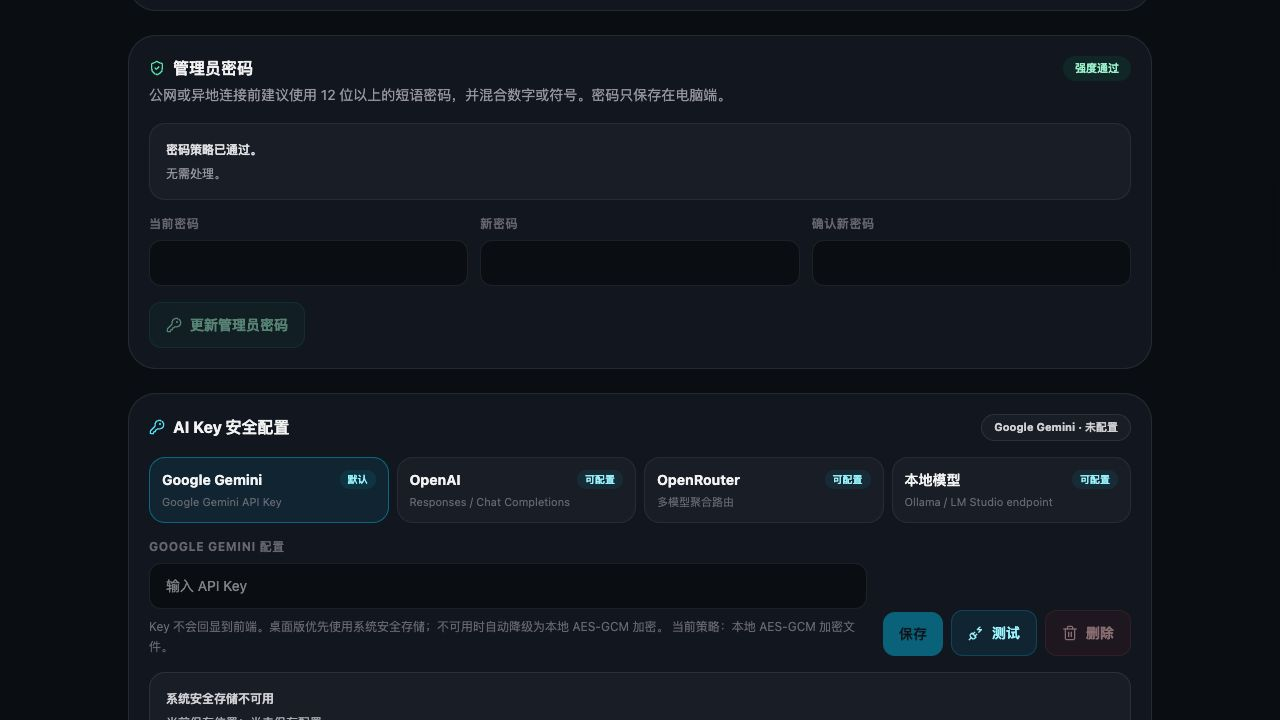
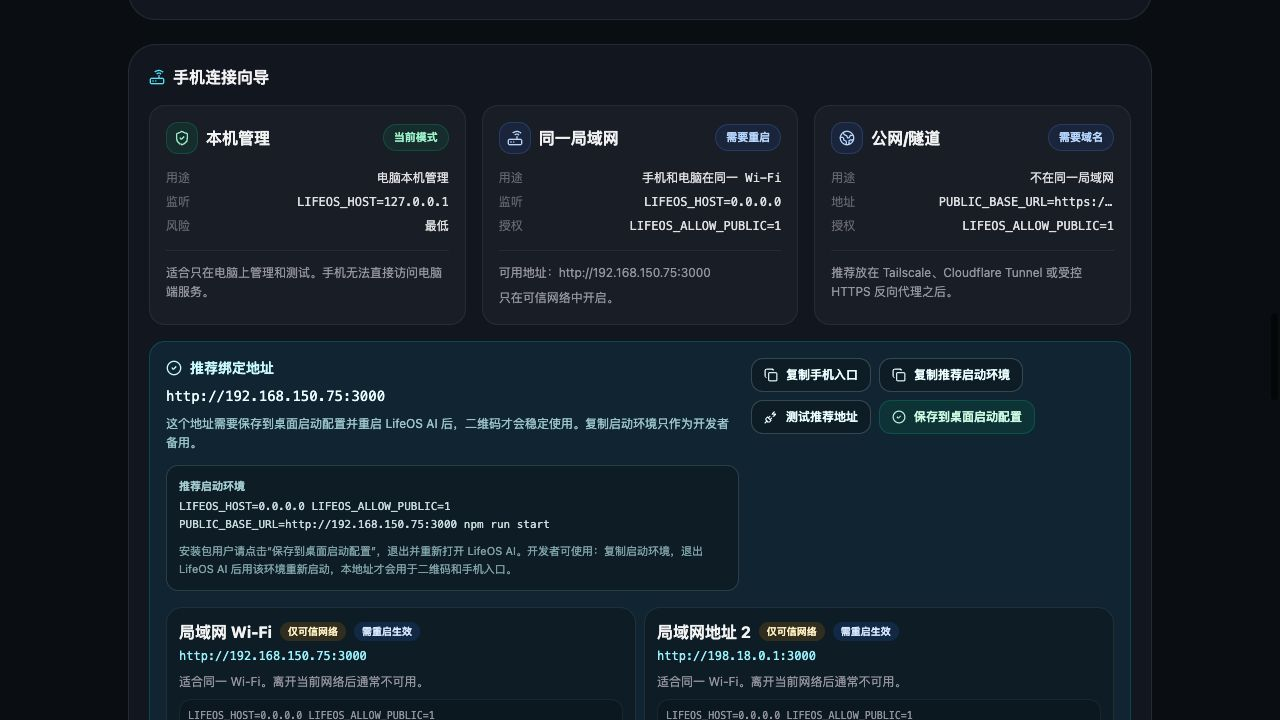
Polish launch materials with real screenshots

diff --git a/server/mobileInstall.ts b/server/mobileInstall.ts
@@ -88,16 +88,16 @@ export function mobileManifest(pairingToken = "") {
     ],
     screenshots: [
       {
-        src: "/screenshots/mobile-chat.svg",
+        src: "/screenshots/real-mobile-chat.jpg",
         sizes: "390x844",
-        type: "image/svg+xml",
+        type: "image/jpeg",
         form_factor: "narrow",
         label: "手机端 AI 聊天",
       },
       {
-        src: "/screenshots/mobile-device.svg",
+        src: "/screenshots/real-mobile-device.jpg",
         sizes: "390x844",
-        type: "image/svg+xml",
+        type: "image/jpeg",
         form_factor: "narrow",
         label: "设备与连接",
       },

diff --git a/public/sw.js b/public/sw.js
@@ -1,4 +1,4 @@
-const CACHE_NAME = "lifeos-ai-shell-v3";
+const CACHE_NAME = "lifeos-ai-shell-v4";
 const OFFLINE_FALLBACK = "/offline.html";
 const SHELL_ASSETS = [
   "/",
@@ -11,8 +11,8 @@ const SHELL_ASSETS = [
   "/icon.svg",
   "/icons/icon-192.png",
   "/icons/icon-512.png",
-  "/screenshots/mobile-chat.svg",
-  "/screenshots/mobile-device.svg",
+  "/screenshots/real-mobile-chat.jpg",
+  "/screenshots/real-mobile-device.jpg",
 ];
 
 function extractBuildAssets(html) {

diff --git a/docs/promotion-kit.md b/docs/promotion-kit.md
@@ -10,9 +10,21 @@ LifeOS AI 是一个本地优先的个人 AI 管家：电脑端运行私有核心
 
 LifeOS AI 把电脑端做成你的个人 AI 核心，用来连接 AI、网络、本地数据和安全设置；手机端通过 PWA 扫码绑定后，成为随时可用的私人 AI 管家。它支持 SQLite 本地存储、AI 多 provider 配置、VPN/隧道连接向导、自动生成离线微应用/程序、备份恢复、离线队列、设备绑定、URL Scheme 白名单和危险动作确认。
 
+## 更完整介绍
+
+LifeOS AI 是一个本地优先的个人 AI 管家/助手。它把“电脑端”和“手机端”分成两个角色：电脑端是私有核心，负责保存数据、连接 AI provider、管理手机设备、生成备份、做安全自检，并通过 LAN、Tailscale、Cloudflare Tunnel 或可信 HTTPS 反向代理提供连接入口；手机端是日常入口，扫码绑定后像 App 一样添加到主屏幕，用来聊天、查看连接状态、处理离线消息和确认本地动作。
+
+它还内置 Studio 工坊：你可以描述一个想要的小工具或工作流，让 AI 生成一个可运行的离线微应用/程序，再继续调整 HTML/CSS/JS。对于需要打开导航、网页、电话、短信、邮件、快捷指令等本地能力的动作，LifeOS AI 使用 URL Scheme 白名单、危险动作二次确认和审计日志，避免任意 scheme 注入。
+
 ## 英文短介绍
 
 LifeOS AI is a local-first personal AI assistant. The desktop app runs the private core for AI providers, local data, device management, VPN/tunnel connectivity, generated micro apps, backups, and security; the phone connects as a paired mobile PWA companion for everyday use.
+
+## Longer English Description
+
+LifeOS AI is a local-first personal AI assistant with a desktop private core and a mobile PWA companion. The desktop app stores SQLite data, manages AI providers and keys, pairs phones, creates backups, runs safety checks, and helps expose the service through LAN, Tailscale, Cloudflare Tunnel, or a trusted HTTPS reverse proxy. The phone becomes the everyday assistant: chat, offline queue, device state, connection status, and local-action confirmations.
+
+The Studio workshop lets you describe a small tool or workflow and generate a runnable offline micro app, then refine its HTML/CSS/JS. For local actions such as maps, web pages, phone, SMS, mail, and shortcuts, LifeOS AI uses a URL Scheme allowlist, dangerous-action confirmation, and redacted audit logs.
 
 ## GitHub 仓库描述
 
@@ -93,6 +105,35 @@ https://github.com/WGJ-Fry/lifeos-ai
 欢迎试用、提 issue、给 star。
 ```
 
+## 中文长帖
+
+```text
+我做了一个本地优先的个人 AI 管家/助手：LifeOS AI。
+
+它不是单纯的聊天网页，而是一个“电脑端私有核心 + 手机端随身入口”的个人 AI 系统。
+
+电脑端负责：
+- 连接 Gemini / OpenAI / OpenRouter / 本地模型
+- 保存 SQLite 本地数据
+- 管理手机设备绑定
+- 做管理员认证、安全自检、备份恢复和诊断导出
+- 提供 LAN、Tailscale、Cloudflare Tunnel、可信 HTTPS 反向代理的连接向导
+
+手机端负责：
+- 扫码绑定后作为 PWA 添加到主屏幕
+- 随时聊天
+- 离线消息排队，恢复网络后同步
+- 查看设备与连接状态
+- 确认导航、网页、电话、短信、邮件、快捷指令等本地动作
+
+另外还有 Studio 工坊：可以描述自己想要的小工具或工作流，让 AI 自动生成可运行的离线微应用/程序，然后继续调试 HTML/CSS/JS。
+
+当前已经有 macOS / Windows / Linux 安装包。macOS 包已 Developer ID 签名和 Apple 公证；Windows 包暂未 Authenticode 签名，可能会有 SmartScreen 提示。
+
+项目地址：
+https://github.com/WGJ-Fry/lifeos-ai
+```
+
 ## 英文发布帖
 
 ```text
@@ -118,6 +159,35 @@ https://github.com/WGJ-Fry/lifeos-ai
 Feedback, issues, and stars are welcome.
 ```
 
+## English Long Post
+
+```text
+I built LifeOS AI, a local-first personal AI assistant.
+
+It is not just another chat page. It is a desktop private core plus a mobile PWA companion.
+
+The desktop app handles:
+- Gemini / OpenAI / OpenRouter / local model configuration
+- SQLite local data
+- phone pairing
+- admin auth, safety checks, backups, restore, and diagnostics
+- LAN, Tailscale, Cloudflare Tunnel, and trusted HTTPS reverse-proxy connection guidance
+
+The phone handles:
+- paired mobile PWA access
+- everyday chat
+- offline message queue
+- device and connection status
+- confirmation for local actions such as maps, web pages, phone, SMS, mail, and shortcuts
+
+There is also a Studio workshop for generated micro apps: describe a tool or workflow, generate a runnable offline app, then refine its HTML/CSS/JS.
+
+The current release includes macOS / Windows / Linux desktop builds. The macOS build is Developer ID signed and Apple notarized. The Windows build is installable but not Authenticode signed yet, so SmartScreen may warn.
+
+Repo:
+https://github.com/WGJ-Fry/lifeos-ai
+```
+
 ## V2EX 标题
 
 ```text
@@ -136,6 +206,14 @@ Show HN: LifeOS AI - A local-first personal AI assistant with desktop core and m
 Your private AI core on desktop. Your personal AI assistant on phone.
 ```
 
+## 首页截图说明
+
+```text
+截图 1：首次启动与安全自检，展示管理员密码、AI Key、备份和公网风险提示。
+截图 2：手机连接向导，展示本机管理、同一局域网、公网/隧道、推荐绑定地址和启动环境。
+截图 3：手机端入口，展示绑定状态、设备凭证、离线队列和 PWA 能力。
+```
+
 ## 截图素材
 
 - 真实首次启动与安全自检：`public/screenshots/real-admin-onboarding.jpg`
@@ -152,6 +230,15 @@ Your private AI core on desktop. Your personal AI assistant on phone.
 3. 英文社区：X、Reddit、Hacker News Show HN。
 4. 产品社区：Product Hunt。
 5. 收集问题：把高频反馈整理成 README FAQ 和 GitHub Issues。
+
+## 发布前检查
+
+- README 顶部有安装包下载入口。
+- Release 页面上传 DMG、EXE、AppImage、SHA256SUMS 和 update feed 文件。
+- 截图使用 `public/screenshots/real-*.jpg`，不要使用概念图。
+- GitHub Topics 已包含 `personal-ai`、`local-first`、`pwa`、`electron`、`sqlite`、`tailscale`、`cloudflare-tunnel`。
+- Issues 已开启，建议同时开启 Discussions 收集使用反馈。
+- Windows 未签名、自动更新未启用、许可证保留所有权利，这三点要主动说明。
 
 ## 注意事项
 